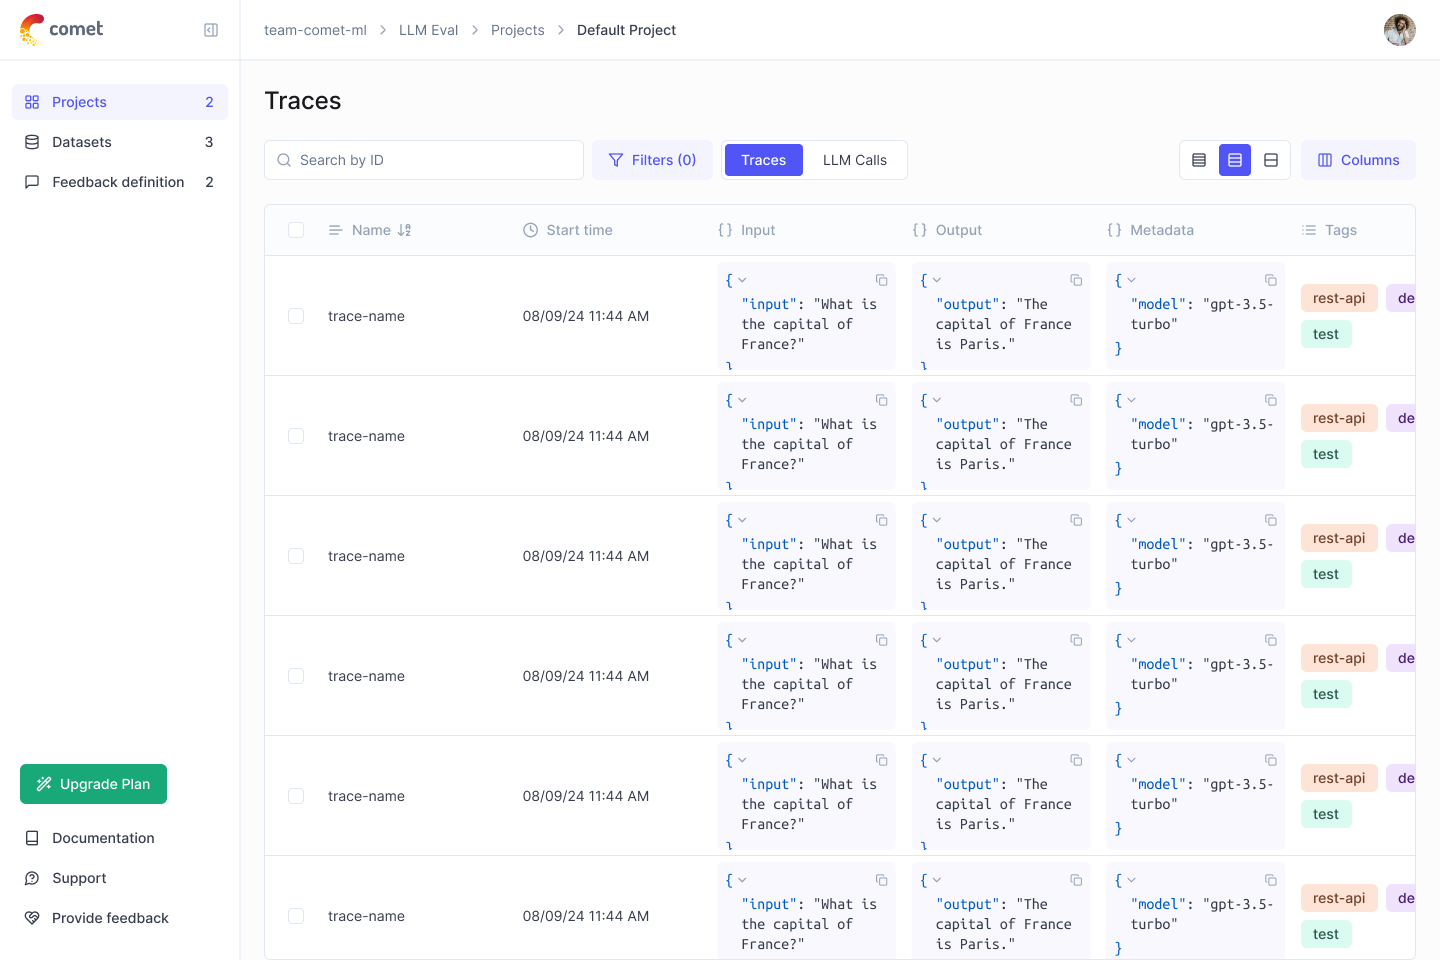
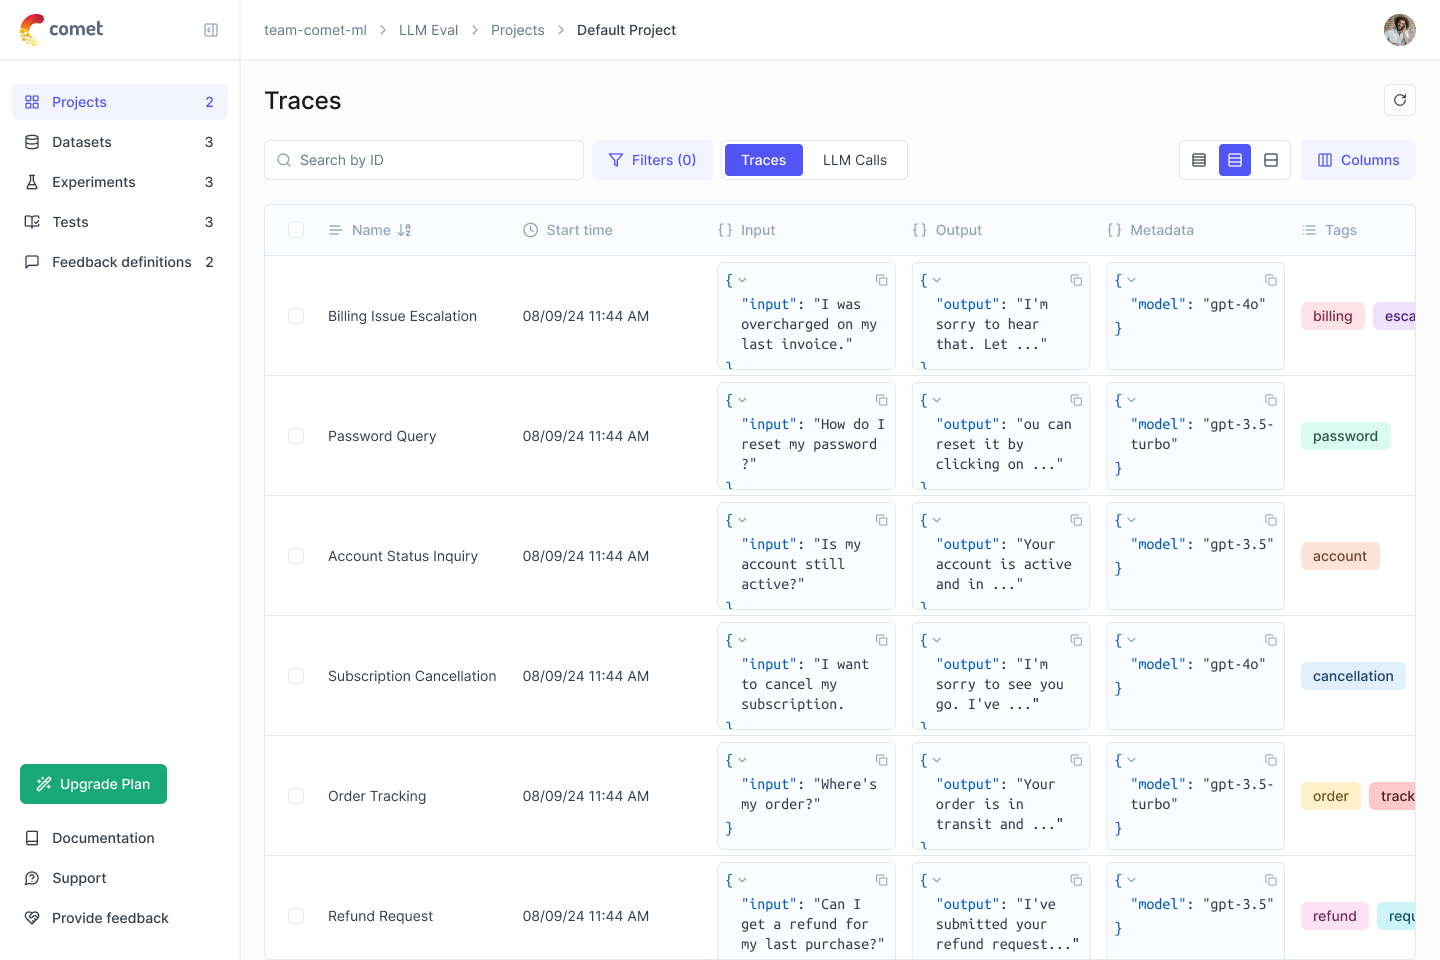
Update readme (#666)

diff --git a/README.md b/README.md
@@ -31,8 +31,7 @@ Confidently evaluate, test and monitor LLM applications. 
     <a href="https://www.comet.com/site/products/opik?from=llm&utm_source=opik&utm_medium=github&utm_content=website_button&utm_campaign=opik"><b>Website</b></a> •
     <a href="https://chat.comet.com"><b>Slack community</b></a> •
     <a href="https://x.com/Cometml"><b>Twitter</b></a> •
-    <a href="https://www.comet.com/docs/opik/?from=llm&utm_source=opik&utm_medium=github&utm_content=docs_button&utm_campaign=opik"><b>Documentation</b></a> •
-    <a href="https://github.com/comet-ml/opik/discussions"><b>Feature Requests</b></a>
+    <a href="https://www.comet.com/docs/opik/?from=llm&utm_source=opik&utm_medium=github&utm_content=docs_button&utm_campaign=opik"><b>Documentation</b></a>
 </p>
 
 ![Opik thumbnail](readme-thumbnail.png)